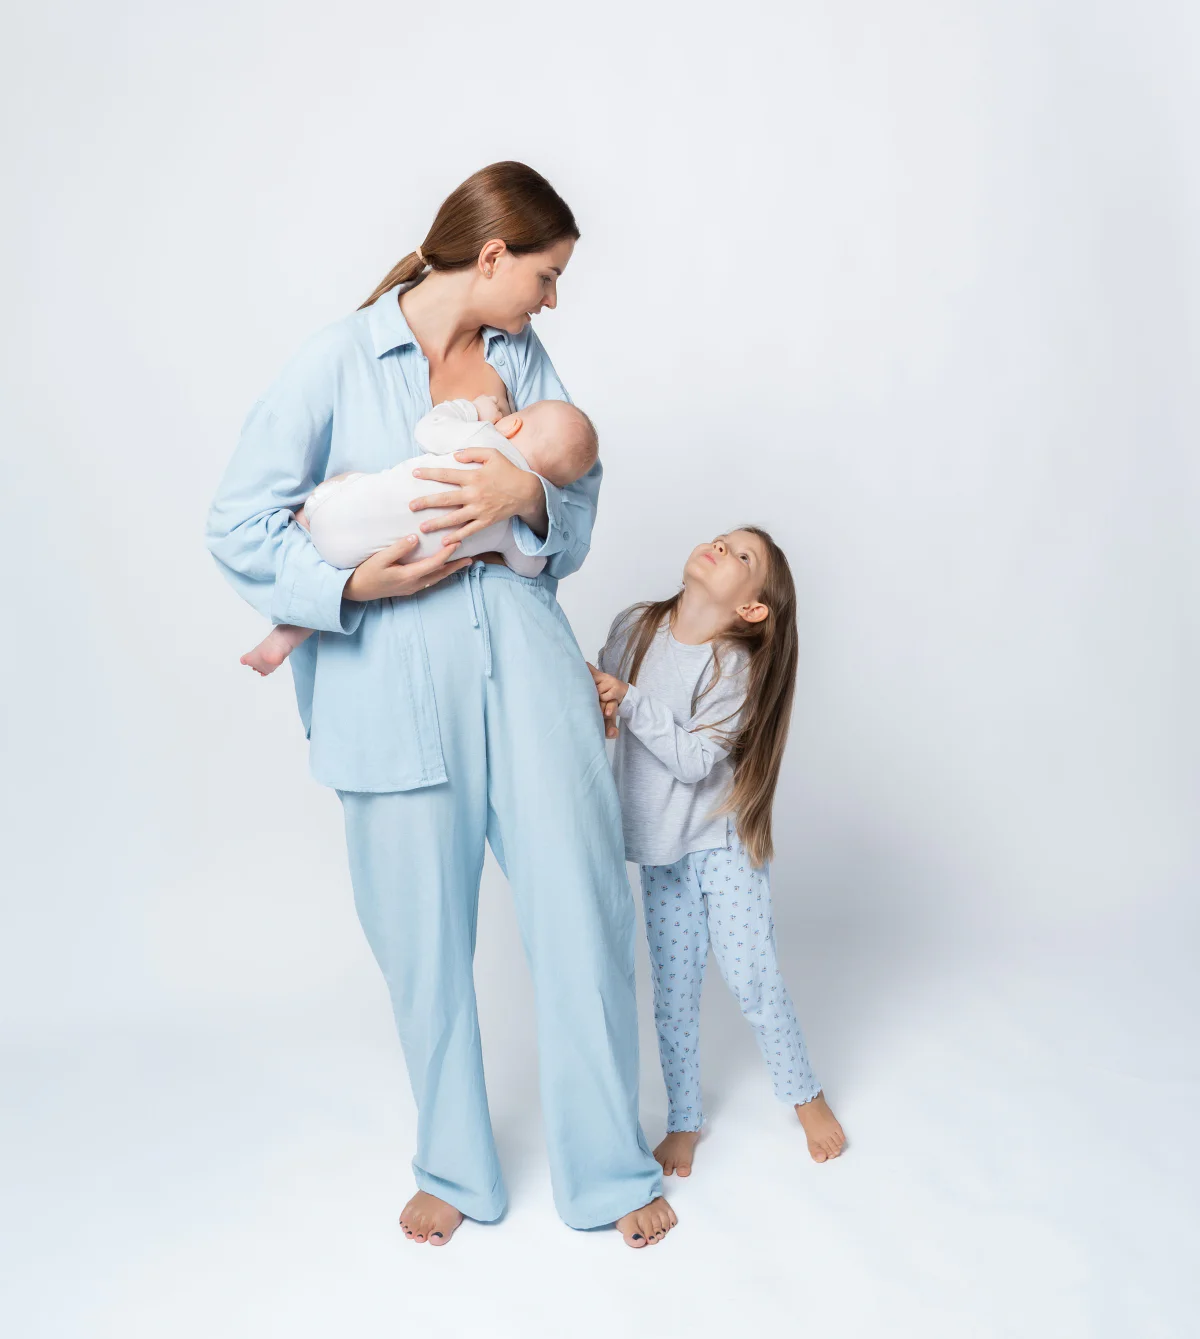
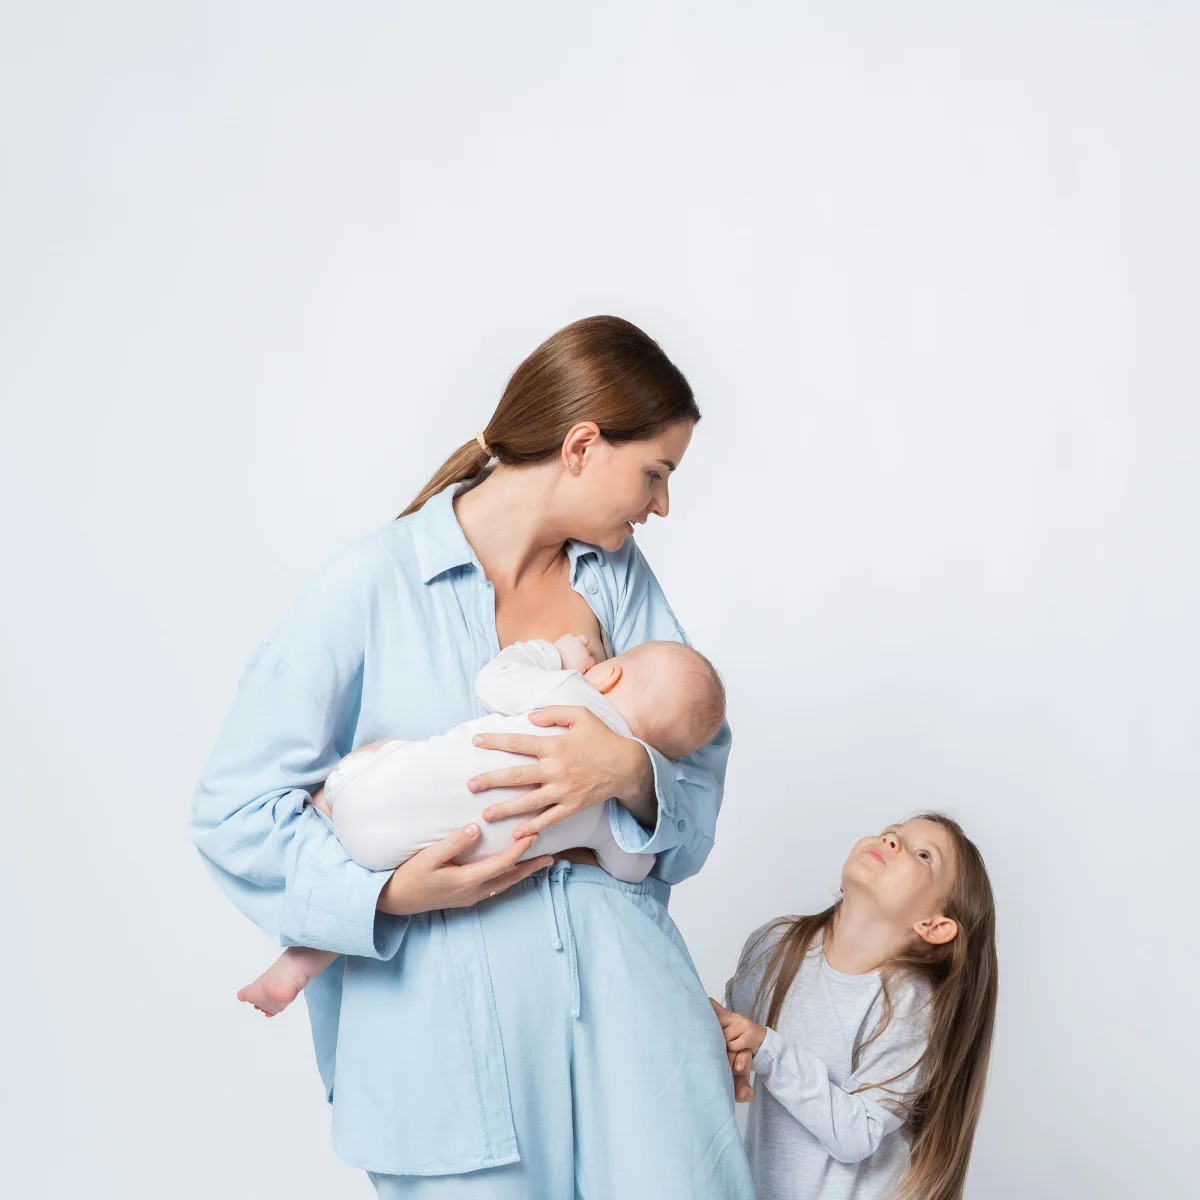
Use square hero crop at zoom 1 so the whole family is in frame
- 2000x2000 crop from the original around mother, baby and daughter;
  800/1200/1600 WebP, drop the 2400px file and zoom-dependent sizes
- Longer, smoother top fade; bottom fade starts later
- Text overlaps the photo by 30px so the daughter's face stays visible
- README: new crop command

diff --git a/assets/css/styles.css b/assets/css/styles.css
@@ -15,9 +15,9 @@
   --sans: Montserrat, system-ui, -apple-system, "Segoe UI", sans-serif;
 
   /* Photo controls */
-  --photo-zoom: 1.7;                        /* 1 = full width; 1.2 = people 20% bigger (sides get cropped). Keep in sync with sizes="" in index.html */
+  --photo-zoom: 1;                          /* 1 = full width; 1.2 = people 20% bigger (sides get cropped). If above 1, also update sizes="" in index.html */
   --photo-height: clamp(240px, 48svh, 540px); /* min, share of screen height, max */
-  --photo-focus: 45% 12%;                    /* which part stays in frame: x y (0% 0% = top-left) */
+  --photo-focus: 50% 40%;                    /* which part stays in frame: x y (0% 0% = top-left) */
 }
 
 html,
@@ -126,27 +126,24 @@ body {
     to bottom,
     transparent 0%,
     rgba(0, 0, 0, 0.04) 4%,
-    rgba(0, 0, 0, 0.15) 9%,
-    rgba(0, 0, 0, 0.33) 14%,
-    rgba(0, 0, 0, 0.55) 19%,
-    rgba(0, 0, 0, 0.75) 24%,
-    rgba(0, 0, 0, 0.9) 29%,
-    rgba(0, 0, 0, 0.98) 34%,
-    #000 38%,
-    #000 50%,
-    rgba(0, 0, 0, 0.97) 55%,
-    rgba(0, 0, 0, 0.88) 61%,
-    rgba(0, 0, 0, 0.72) 67%,
-    rgba(0, 0, 0, 0.52) 73%,
-    rgba(0, 0, 0, 0.32) 80%,
-    rgba(0, 0, 0, 0.15) 87%,
-    rgba(0, 0, 0, 0.05) 94%,
+    rgba(0, 0, 0, 0.14) 8%,
+    rgba(0, 0, 0, 0.3) 12%,
+    rgba(0, 0, 0, 0.5) 16%,
+    rgba(0, 0, 0, 0.7) 20%,
+    rgba(0, 0, 0, 0.86) 24%,
+    rgba(0, 0, 0, 0.96) 28%,
+    #000 31%,
+    #000 74%,
+    rgba(0, 0, 0, 0.88) 80%,
+    rgba(0, 0, 0, 0.66) 85%,
+    rgba(0, 0, 0, 0.42) 90%,
+    rgba(0, 0, 0, 0.2) 95%,
     transparent 100%
   );
   display: block;
   width: calc(100% * var(--photo-zoom));
   max-width: none;
-  margin-left: calc(50% - 44% * var(--photo-zoom));
+  margin-left: calc(50% - 50% * var(--photo-zoom));
   height: var(--photo-height);
   object-fit: cover;
   object-position: var(--photo-focus);
@@ -157,7 +154,7 @@ body {
 
 .poster__content {
   position: relative;
-  margin-top: -90px;
+  margin-top: -30px;
   display: flex;
   flex-direction: column;
   gap: 14px;

diff --git a/index.html b/index.html
@@ -60,13 +60,12 @@
       <span class="arrow" aria-hidden="true"></span>
     </header>
 
-    <!-- sizes = column width × --photo-zoom (1.7). Update both numbers if you change the zoom in styles.css -->
     <div class="poster__media">
       <img class="poster__photo"
            src="assets/img/hero-800.webp"
-           srcset="assets/img/hero-800.webp 800w, assets/img/hero-1200.webp 1200w, assets/img/hero-1600.webp 1600w, assets/img/hero-2400.webp 2400w"
-           sizes="(max-width: 520px) calc(100vw * 1.7), 884px"
-           width="1600" height="1785"
+           srcset="assets/img/hero-800.webp 800w, assets/img/hero-1200.webp 1200w, assets/img/hero-1600.webp 1600w"
+           sizes="(max-width: 520px) 100vw, 520px"
+           width="1600" height="1600"
            fetchpriority="high"
            alt="Мама з немовлям на руках і донька поруч">
     </div>

diff --git a/README.md b/README.md
@@ -7,7 +7,7 @@ Mobile landing page for https://helper.makorishko.yoga: a headline in the style 
 ```
 index.html              page markup and meta tags (Vite entry)
 assets/css/styles.css   styles; colors, fonts and photo controls are variables at the top
-assets/img/             hero photo as WebP in 800/1200/1600/2400 px widths
+assets/img/             hero photo as square WebP in 800/1200/1600 px widths
 public/                 copied to dist/ as-is: favicons, web manifest, og.jpg (link preview), robots.txt, sitemap.xml
 source-images/          originals: photo and favicon (not referenced by the page)
 ```
@@ -18,11 +18,11 @@ source-images/          originals: photo and favicon (not referenced by the page
 - **Text:** in `index.html`, edit `.title`, `.subtitle`, `.tagline`, `.eyebrow` (headline block) and `.desc` (above the button). Update the `description` / `og:description` / `twitter:description` meta tags to match.
 - **Colors and fonts:** variables at the top of `assets/css/styles.css` (`--page-bg`, `--blush`, `--cream`, `--display`, `--sans`).
 - **Photo framing:** `--photo-zoom`, `--photo-height`, `--photo-focus` at the top of `styles.css`. After changing `--photo-zoom`, update the `sizes` attribute on the `<img>` in `index.html` (`calc(100vw * ZOOM), 520*ZOOMpx`) so phones download a sharp enough file.
-- **Photo file:** put the original in `source-images/`, then regenerate the WebP files (the crop removes empty wall above the people):
+- **Photo file:** put the original in `source-images/`, then regenerate the WebP files (a 2000×2000 square around the people):
 
 ```sh
-for w in 800 1200 1600 2400; do
-  cwebp -q 85 -sharp_yuv -crop 0 560 2726 3040 -resize $w 0 -metadata none \
+for w in 800 1200 1600; do
+  cwebp -q 85 -sharp_yuv -crop 150 400 2000 2000 -resize $w 0 -metadata none \
     source-images/hero-original.jpg -o assets/img/hero-$w.webp
 done
 ```
